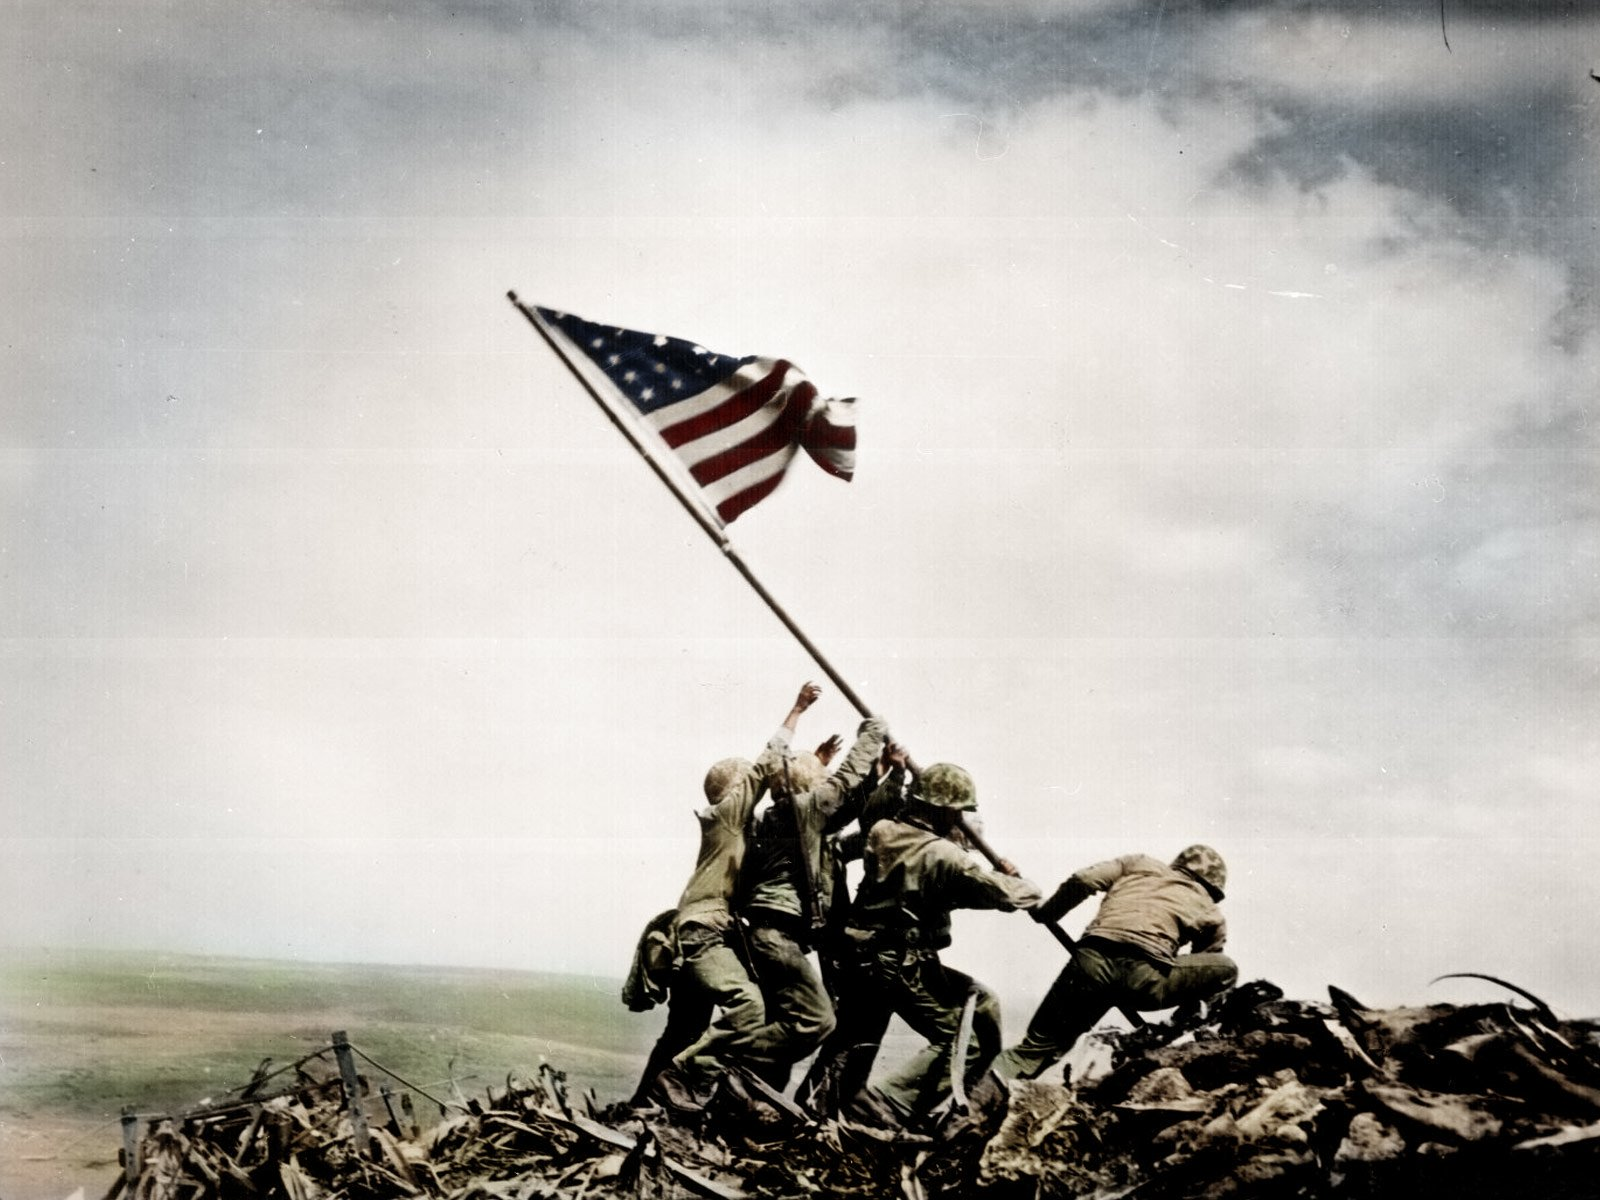
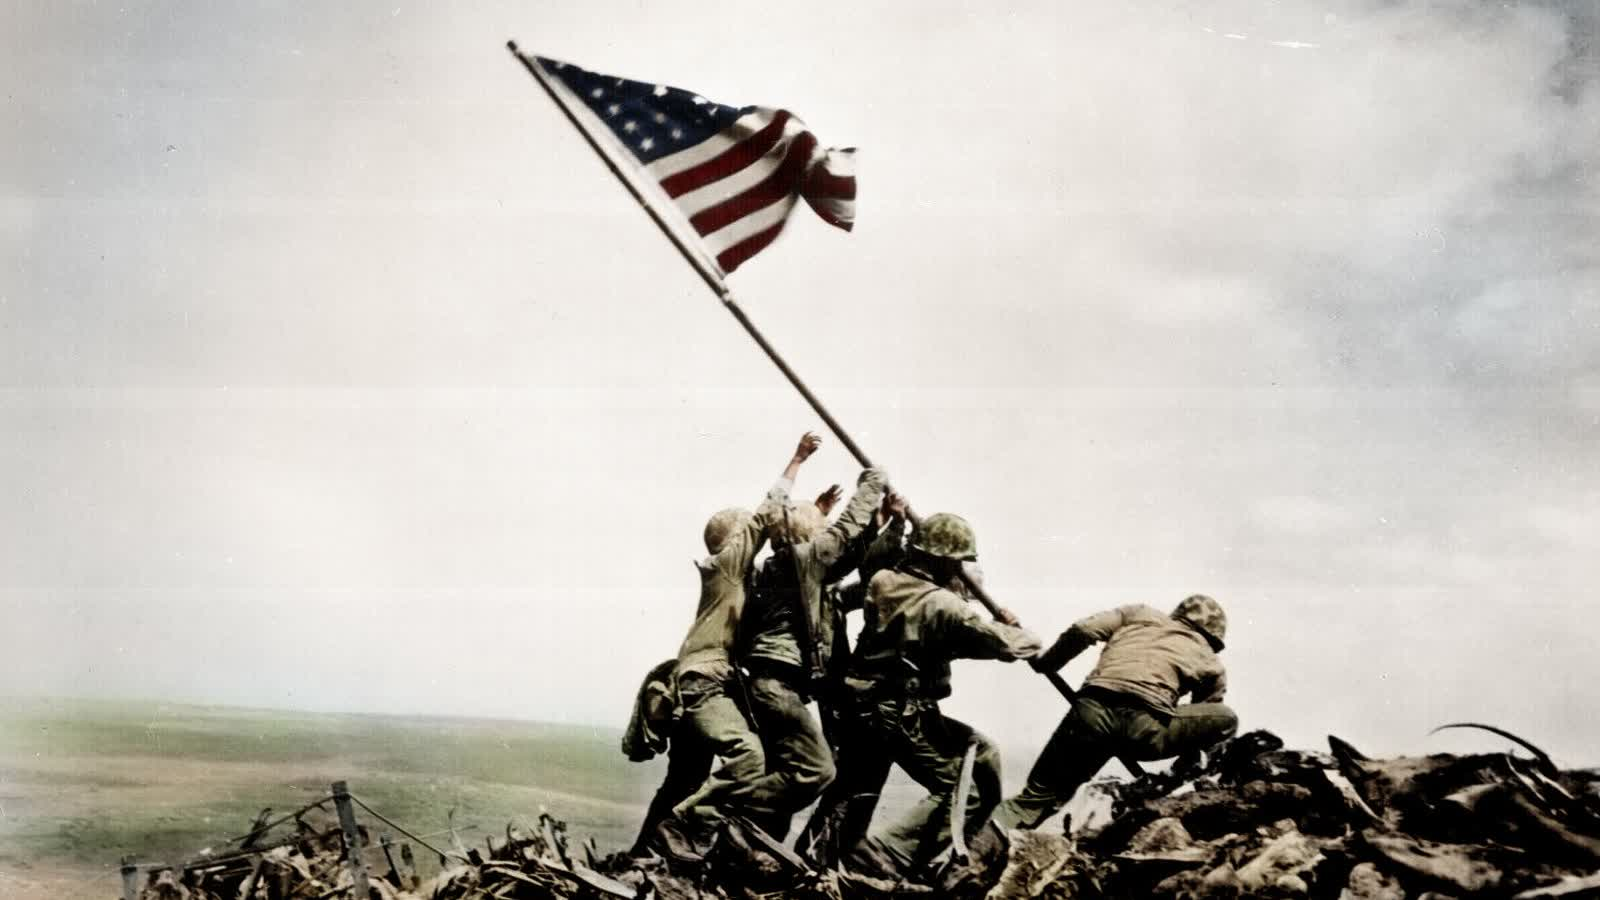
Add founders photo, fix photo mix-ups, surface photo ids in ?diag=1
Content:
- our-history: founders photo (John and Nicole Mahshie) now backs the
  "Founded in 2013" wash instead of a random gallery photo
- military-art: re-cropped the Iwo Jima flag-raising photo — the default
  cover crop was cutting the flag and men awkwardly; re-cropped to 16:9
  at source so it composes correctly under the standard treatment
- in-uniform: synced a second photo that was on the Desktop folder but had
  never made it into the repo's curated set
- program-acupuncture: recovered a mis-filed acupuncture resource-table
  photo out of gen-pop-additions (it's a specific program photo, not a
  generic one)

Diagnostics:
- scenes.js: img() now optionally tags a content/decoration image with
  data-vhf-photo-id (the id gallery.json/curated-photos.json already
  carries per photo), threaded through every photo/wash/logo/graphic call
  site
- engine.js: records the currently-shown scene's photo id
- diagnostics.js: ?diag=1 overlay shows it as "photo <id>" — lets a bad
  crop or composition spotted on the wall be pointed straight back at its
  source file instead of guessed at from the rendered image

diff --git a/web/js/scenes.js b/web/js/scenes.js
@@ -21,11 +21,17 @@ var VhfScenes = (function () {
   // it. The engine preloads both, but only a "content" image failing makes
   // a scene worth skipping — a photo scene with no photo is an empty
   // frame, whereas a missing watermark or corner mark is invisible.
-  function img(className, src, role) {
+  // photoId, when given, is the id gallery.json/curated-photos.json already
+  // carries per photo (e.g. "military-art/thumb-1920-374856.jpg" or a
+  // gallery scrape id) — surfaced only through ?diag=1 (diagnostics.js), so
+  // a bad crop or composition found on the wall can be pointed back at the
+  // exact source file without guessing from the rendered src.
+  function img(className, src, role, photoId) {
     var node = el("img", className);
     node.src = src;
     node.alt = "";
     node.setAttribute("data-vhf-role", role);
+    if (photoId) node.setAttribute("data-vhf-photo-id", photoId);
     return node;
   }
 
@@ -84,7 +90,7 @@ var VhfScenes = (function () {
     var photos = curated.length > 0 ? curated : usablePhotos((data && data.gallery && data.gallery.photos) || []);
     if (photos.length === 0) return;
     var photo = photos[Math.floor(Math.random() * photos.length)];
-    scene.appendChild(img("scene__wash", photo.src, "decoration"));
+    scene.appendChild(img("scene__wash", photo.src, "decoration", photo.id));
   }
 
   // Curated sets that hold an organization's logo rather than candid photos
@@ -96,7 +102,7 @@ var VhfScenes = (function () {
   function appendPartnerLogo(scene, data, programId) {
     var photos = usablePhotos(curatedSet(data, programId));
     if (photos.length === 0) return false;
-    scene.appendChild(img("scene__partner-logo", photos[0].src, "decoration"));
+    scene.appendChild(img("scene__partner-logo", photos[0].src, "decoration", photos[0].id));
     return true;
   }
 
@@ -115,7 +121,7 @@ var VhfScenes = (function () {
     if (photos.length === 0) return false;
     var pick = drawPhotos(programId, photos, 1)[0];
     if (!pick) return false;
-    scene.appendChild(img("scene__event-graphic", pick.src, "decoration"));
+    scene.appendChild(img("scene__event-graphic", pick.src, "decoration", pick.id));
     return true;
   }
 
@@ -341,9 +347,9 @@ var VhfScenes = (function () {
     return scene;
   }
 
-  function buildPhotoScene(src, fit, focus, eyebrow) {
+  function buildPhotoScene(src, fit, focus, eyebrow, photoId) {
     var scene = el("div", "scene scene--photo");
-    var photo = img("scene__photo-img", src, "content");
+    var photo = img("scene__photo-img", src, "content", photoId);
     photo.style.objectFit = fit === "contain" ? "contain" : "cover";
     // A generic photo of unknown composition crops slightly better favoring
     // the upper-middle by default (avoids cutting off heads more often than
@@ -365,7 +371,7 @@ var VhfScenes = (function () {
   function renderPhoto(item) {
     var content = item.content || {};
     if (!content.src) throw new Error("photo scene missing content.src");
-    return buildPhotoScene(content.src, content.fit, content.focus);
+    return buildPhotoScene(content.src, content.fit, content.focus, null, item.id);
   }
 
   function renderPhotoPool(item, data) {
@@ -386,14 +392,14 @@ var VhfScenes = (function () {
 
     var photo = drawPhotos(poolKey, photos, 1)[0];
     if (!photo) throw new Error("photo pool has no usable photos left");
-    return buildPhotoScene(photo.src, "cover", null, content.eyebrow);
+    return buildPhotoScene(photo.src, "cover", null, content.eyebrow, photo.id);
   }
 
   function renderCustom(item) {
     var content = item.content || {};
     if (!content.src) throw new Error("custom scene missing content.src");
     var scene = el("div", "scene scene--custom");
-    scene.appendChild(img("scene__photo-img", content.src, "content"));
+    scene.appendChild(img("scene__photo-img", content.src, "content", item.id));
     return scene;
   }
 

diff --git a/web/js/engine.js b/web/js/engine.js
@@ -460,6 +460,11 @@
           if (scene.node) {
             showLayer(scene.node);
             log("showing " + scene.item.id + " (" + scene.item.type + ")");
+            // Surfaced only through ?diag=1 — lets a photo/graphic that's
+            // poorly cropped or composed on the wall be pointed straight
+            // back at its source file/folder instead of guessed at.
+            var photoEl = scene.node.querySelector ? scene.node.querySelector("[data-vhf-photo-id]") : null;
+            VhfDiagnostics.set("photoId", photoEl ? photoEl.getAttribute("data-vhf-photo-id") : null);
           } else {
             log("holding: " + scene.item.id + " (" + scene.item.type + ") could not be built");
           }

diff --git a/web/js/diagnostics.js b/web/js/diagnostics.js
@@ -93,6 +93,7 @@ var VhfDiagnostics = (function () {
       line("err", String(errorCount))
     ];
     if (fields.scene) parts.push(fields.scene);
+    if (fields.photoId) parts.push("photo " + fields.photoId);
     if (lastError) parts.push("! " + lastError.where + ": " + lastError.message);
     el.textContent = parts.join("  ·  ");
   }
